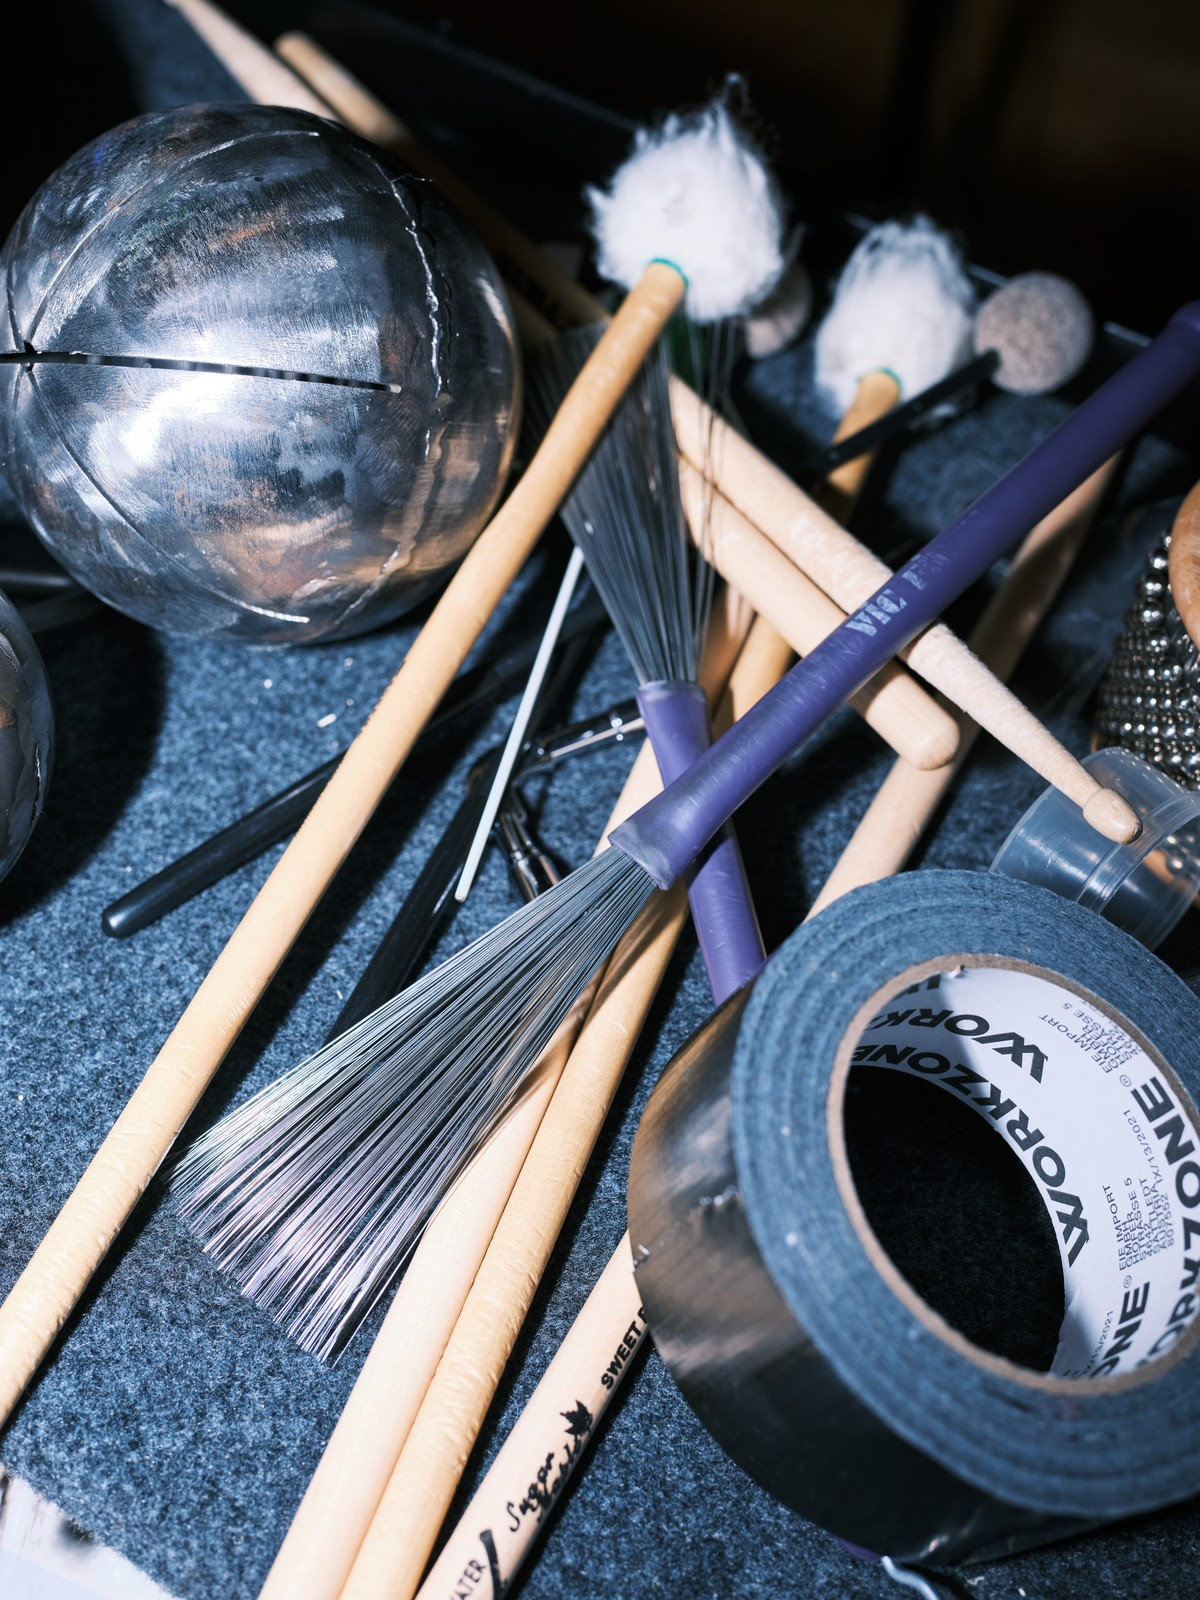
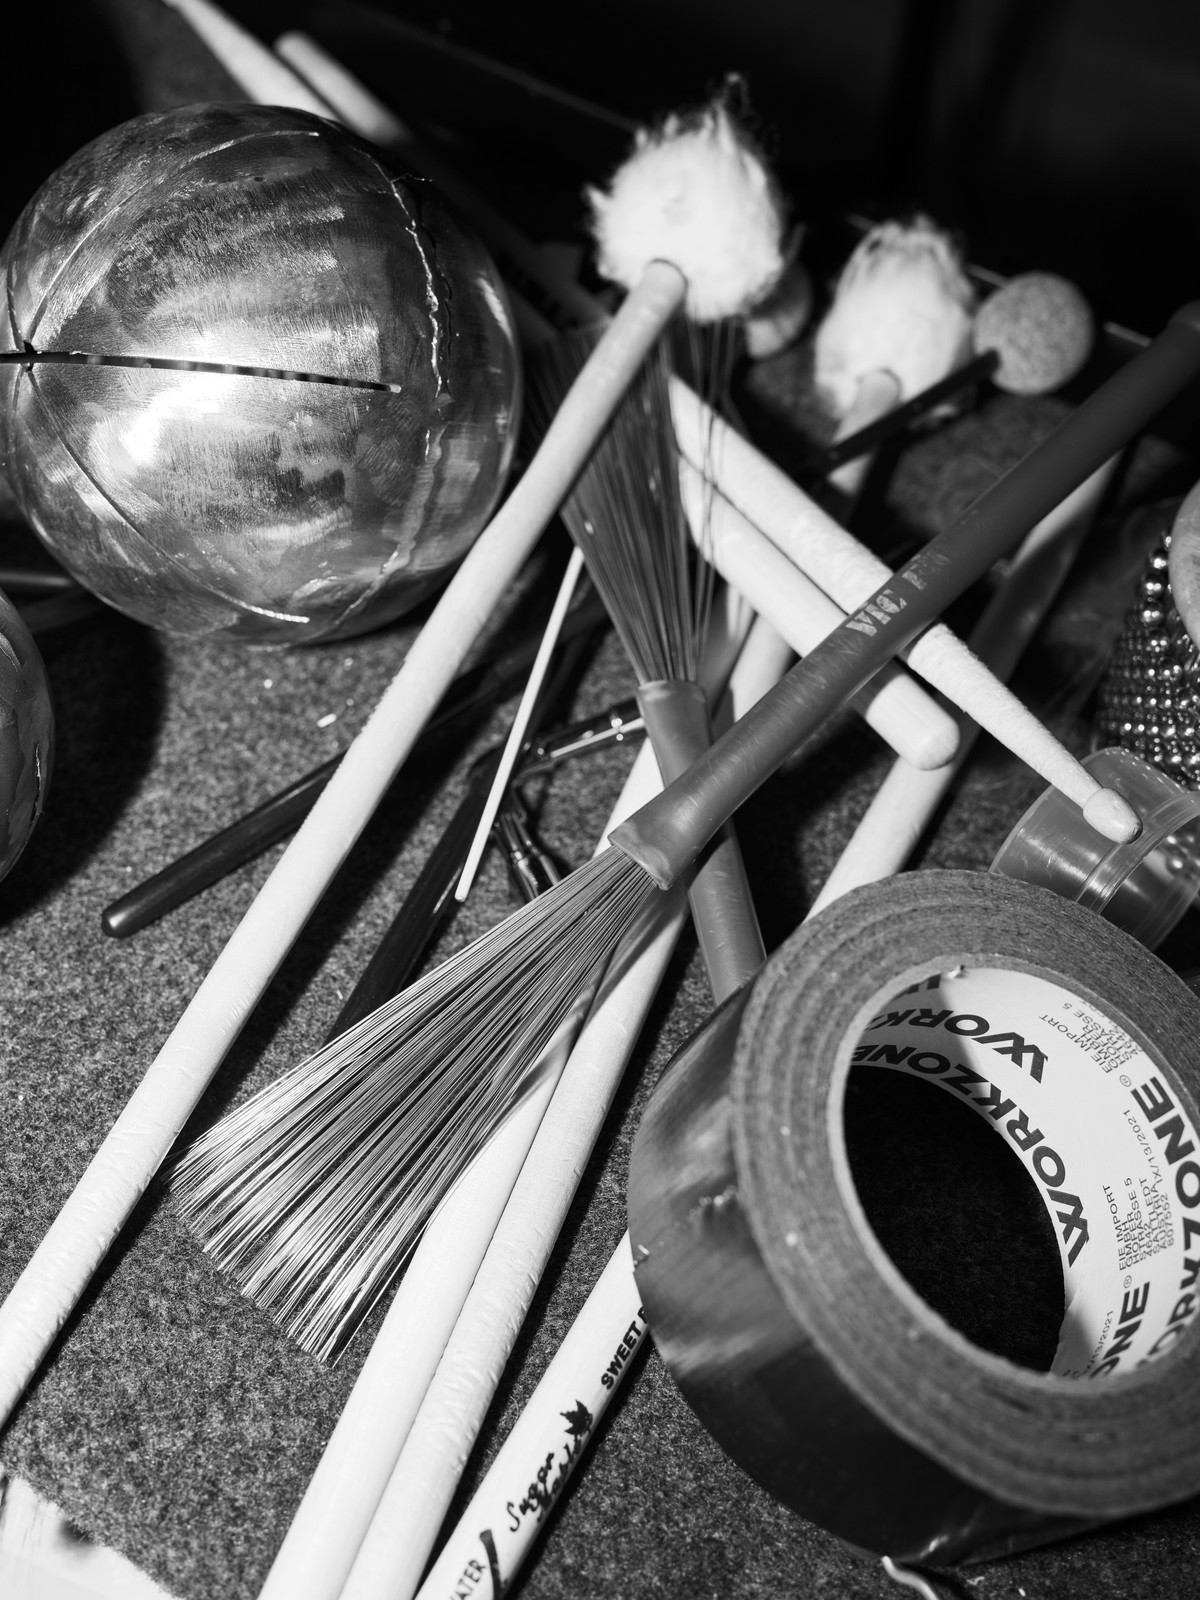
Lightbox: Foto 13 echt schwarzweiß + Galerie merkt sich Position beim Schließen

diff --git a/assets/js/lightbox.js b/assets/js/lightbox.js
@@ -71,6 +71,9 @@
     if (!overlay) return;
     overlay.classList.remove("is-open");
     document.body.style.overflow = "";
+    if (items[index]) {
+      items[index].scrollIntoView({ block: "nearest", inline: "nearest" });
+    }
   }
 
   document.addEventListener("click", function (e) {

diff --git a/HANDOFF.md b/HANDOFF.md
@@ -343,6 +343,24 @@ statt iframe zeigen, iframe erst per Klick nachladen.
 
 ## Erledigt (chronologisch, neueste zuerst)
 
+- Zwei Lightbox-Fixes: (1) `yamuna-press-13.jpg` war nur per CSS-Filter
+  graustufen-getrickst (Thumbnail grau, Lightbox-Großansicht zeigte aber
+  das Farboriginal, da der Graustufen-Filter nur auf `.epk-gallery img`
+  wirkt, nicht auf `.lightbox-img`) — jetzt echt per PIL desaturiert
+  (`ImageOps.grayscale`), damit Thumbnail und Großansicht konsistent
+  schwarzweiß sind. (2) `assets/js/lightbox.js`: `close()` ruft jetzt
+  `items[index].scrollIntoView({block:"nearest", inline:"nearest"})` auf
+  das zuletzt angesehene Foto, damit sich die Galerie-Zeile beim Schließen
+  der Lightbox zur zuletzt angesehenen Position mitbewegt (Leos Wunsch:
+  nicht wieder ganz vorne stehen, wenn man sich bis zum letzten Foto
+  durchgeklickt hat). Album-Cover-Navigation (Yamuna Front/Back) war schon
+  vorher funktionsfähig (gleiche Gruppierungslogik wie die Foto-Galerien,
+  über `.closest(".epk-gallery, .epk-covers")`) — lokal nochmal bestätigt.
+  **Testhinweis:** Der `scrollIntoView`-Effekt beim Schließen ließ sich im
+  Browser-Tool wieder nicht zuverlässig verifizieren (gleiche bekannte
+  Scroll-Eigenheit dieser Preview-Pane bei der echten `.epk-gallery` wie
+  schon beim Pfeil-Feature — ein isolierter Minimal-Test mit identischer
+  API lief einwandfrei). Bitte Leo live gegenchecken (2026-08-11)
 - Yamuna-Pressefoto-Reihenfolge auf durchgehenden Farbe/Schwarzweiß-Wechsel
   gebracht (Leos Wunsch, nachdem die 10 neuen Fotos ergänzt waren): Fotos
   #9/#10 (`yamuna-press-9.jpg`/`-10.jpg`) in der HTML-Reihenfolge getauscht,
